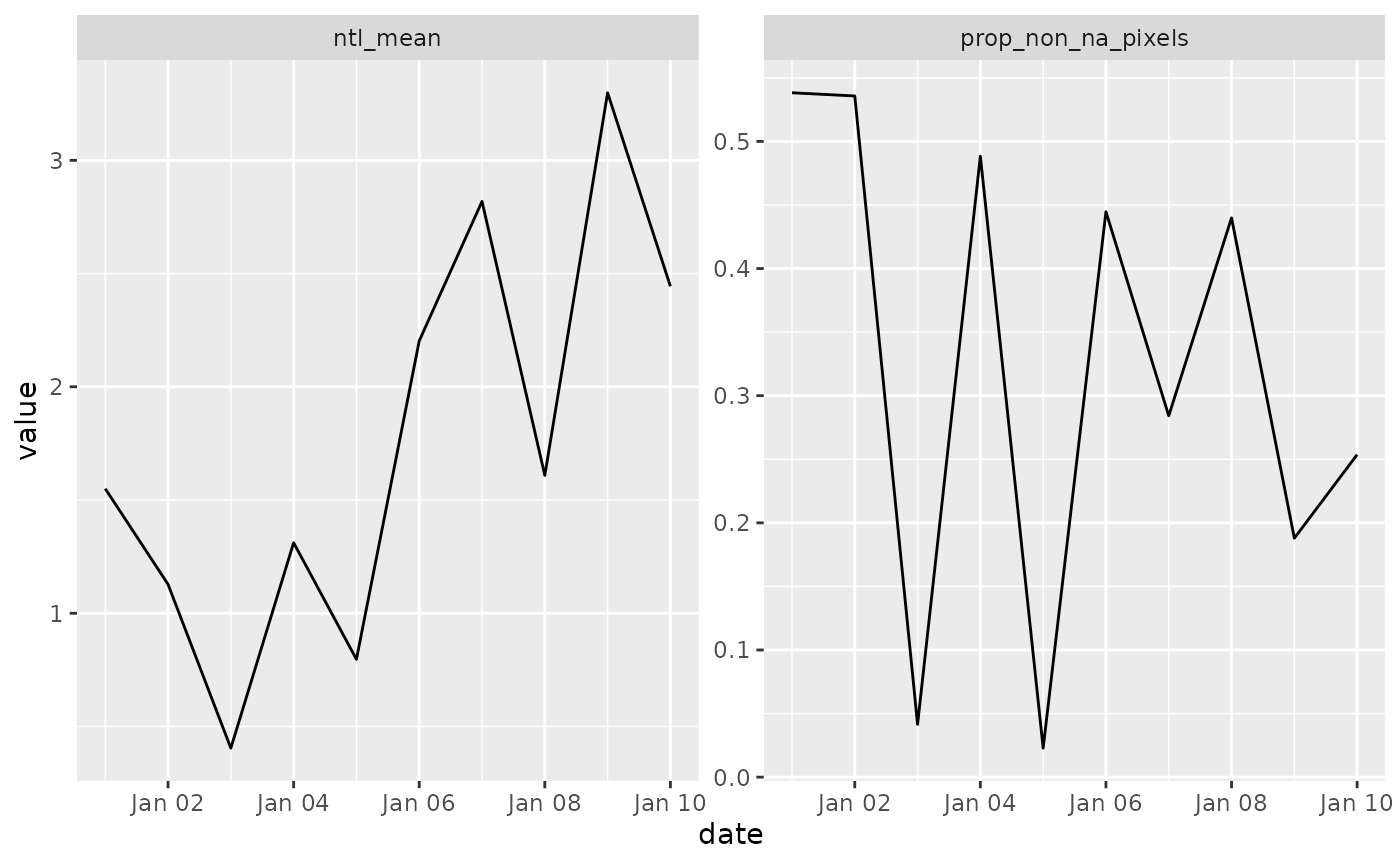
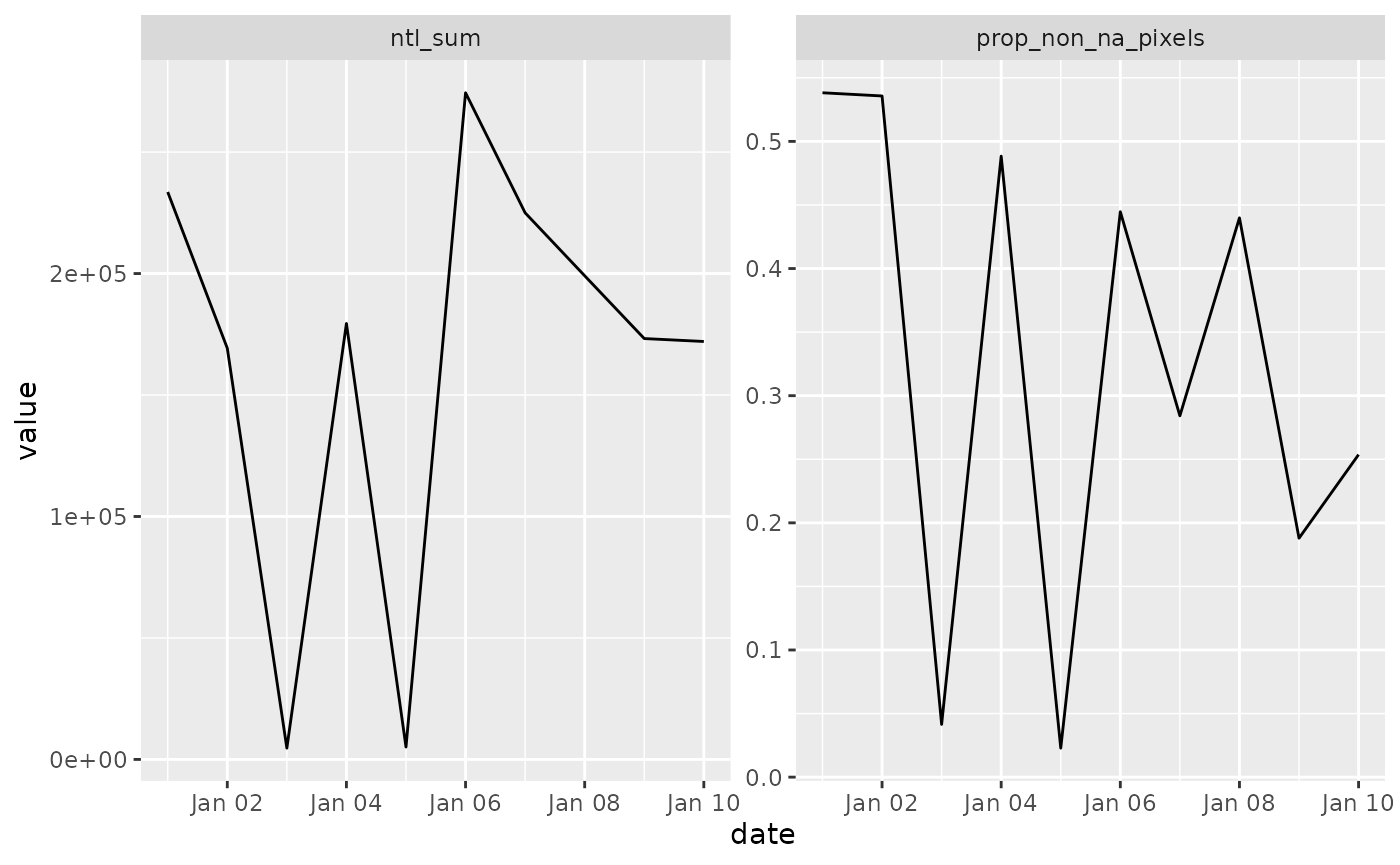
Deploying to gh-pages from @ worldbank/blackmarbler@b3764740acdab73eadd8f19a07637535ee2ee044 🚀

diff --git a/reference/download_h5_files.html b/reference/download_h5_files.html
@@ -1,0 +1,141 @@
+<!DOCTYPE html>
+<!-- Generated by pkgdown: do not edit by hand --><html lang="en"><head><meta http-equiv="Content-Type" content="text/html; charset=UTF-8"><meta charset="utf-8"><meta http-equiv="X-UA-Compatible" content="IE=edge"><meta name="viewport" content="width=device-width, initial-scale=1, shrink-to-fit=no"><title>Download h5 files — download_h5_files • blackmarbler</title><!-- favicons --><link rel="icon" type="image/png" sizes="96x96" href="../favicon-96x96.png"><link rel="icon" type="”image/svg+xml”" href="../favicon.svg"><link rel="apple-touch-icon" sizes="180x180" href="../apple-touch-icon.png"><link rel="icon" sizes="any" href="../favicon.ico"><link rel="manifest" href="../site.webmanifest"><script src="../deps/jquery-3.6.0/jquery-3.6.0.min.js"></script><meta name="viewport" content="width=device-width, initial-scale=1, shrink-to-fit=no"><link href="../deps/bootstrap-5.3.1/bootstrap.min.css" rel="stylesheet"><script src="../deps/bootstrap-5.3.1/bootstrap.bundle.min.js"></script><link href="../deps/font-awesome-6.5.2/css/all.min.css" rel="stylesheet"><link href="../deps/font-awesome-6.5.2/css/v4-shims.min.css" rel="stylesheet"><script src="../deps/headroom-0.11.0/headroom.min.js"></script><script src="../deps/headroom-0.11.0/jQuery.headroom.min.js"></script><script src="../deps/bootstrap-toc-1.0.1/bootstrap-toc.min.js"></script><script src="../deps/clipboard.js-2.0.11/clipboard.min.js"></script><script src="../deps/search-1.0.0/autocomplete.jquery.min.js"></script><script src="../deps/search-1.0.0/fuse.min.js"></script><script src="../deps/search-1.0.0/mark.min.js"></script><!-- pkgdown --><script src="../pkgdown.js"></script><meta property="og:title" content="Download h5 files — download_h5_files"><meta name="description" content="Download h5 files from from NASA Black Marble data using wget. The wget_h5_files() function requires the wget command line tool to be installed on your system. If you do not have wget installed, please install it from https://www.gnu.org/software/wget/."><meta property="og:description" content="Download h5 files from from NASA Black Marble data using wget. The wget_h5_files() function requires the wget command line tool to be installed on your system. If you do not have wget installed, please install it from https://www.gnu.org/software/wget/."><meta property="og:image" content="https://worldbank.github.io/blackmarbler/logo.png"></head><body>
+    <a href="#main" class="visually-hidden-focusable">Skip to contents</a>
+
+
+    <nav class="navbar navbar-expand-lg fixed-top bg-light" data-bs-theme="light" aria-label="Site navigation"><div class="container">
+
+    <a class="navbar-brand me-2" href="../index.html">blackmarbler</a>
+
+    <small class="nav-text text-muted me-auto" data-bs-toggle="tooltip" data-bs-placement="bottom" title="">0.2.6</small>
+
+
+    <button class="navbar-toggler" type="button" data-bs-toggle="collapse" data-bs-target="#navbar" aria-controls="navbar" aria-expanded="false" aria-label="Toggle navigation">
+      <span class="navbar-toggler-icon"></span>
+    </button>
+
+    <div id="navbar" class="collapse navbar-collapse ms-3">
+      <ul class="navbar-nav me-auto"><li class="active nav-item"><a class="nav-link" href="../reference/index.html">Reference</a></li>
+<li class="nav-item dropdown">
+  <button class="nav-link dropdown-toggle" type="button" id="dropdown-articles" data-bs-toggle="dropdown" aria-expanded="false" aria-haspopup="true">Articles</button>
+  <ul class="dropdown-menu" aria-labelledby="dropdown-articles"><li><a class="dropdown-item" href="../articles/assess-quality.html">Assessing Quality of Nighttime Lights Data</a></li>
+  </ul></li>
+      </ul><ul class="navbar-nav"><li class="nav-item"><form class="form-inline" role="search">
+ <input class="form-control" type="search" name="search-input" id="search-input" autocomplete="off" aria-label="Search site" placeholder="Search for" data-search-index="../search.json"></form></li>
+<li class="nav-item"><a class="external-link nav-link" href="https://github.com/worldbank/blackmarbler/" aria-label="GitHub"><span class="fa fab fa-github fa-lg"></span></a></li>
+      </ul></div>
+
+
+  </div>
+</nav><div class="container template-reference-topic">
+<div class="row">
+  <main id="main" class="col-md-9"><div class="page-header">
+      <img src="../logo.png" class="logo" alt=""><h1>Download h5 files</h1>
+      <small class="dont-index">Source: <a href="https://github.com/worldbank/blackmarbler/blob/main/R/blackmarbler.R" class="external-link"><code>R/blackmarbler.R</code></a></small>
+      <div class="d-none name"><code>download_h5_files.Rd</code></div>
+    </div>
+
+    <div class="ref-description section level2">
+    <p>Download h5 files from from <a href="https://blackmarble.gsfc.nasa.gov/" class="external-link">NASA Black Marble data</a> using <code>wget</code>. The wget_h5_files() function requires the wget command line tool to be installed on your system. If you do not have wget installed, please install it from https://www.gnu.org/software/wget/.</p>
+    </div>
+
+    <div class="section level2">
+    <h2 id="ref-usage">Usage<a class="anchor" aria-label="anchor" href="#ref-usage"></a></h2>
+    <div class="sourceCode"><pre class="sourceCode r"><code><span><span class="fu">download_h5_files</span><span class="op">(</span></span>
+<span>  roi_sf <span class="op">=</span> <span class="cn">NULL</span>,</span>
+<span>  <span class="va">product_id</span>,</span>
+<span>  <span class="va">date</span>,</span>
+<span>  <span class="va">h5_dir</span>,</span>
+<span>  <span class="va">bearer</span>,</span>
+<span>  download_method <span class="op">=</span> <span class="st">"httr"</span></span>
+<span><span class="op">)</span></span></code></pre></div>
+    </div>
+
+    <div class="section level2">
+    <h2 id="arguments">Arguments<a class="anchor" aria-label="anchor" href="#arguments"></a></h2>
+
+
+<dl><dt id="arg-roi-sf">roi_sf<a class="anchor" aria-label="anchor" href="#arg-roi-sf"></a></dt>
+<dd><p>Region of interest; sf polygon. Must be in the <a href="https://epsg.io/4326" class="external-link">WGS 84 (epsg:4326)</a> coordinate reference system. If <code>NULL</code>, all <code>h5</code> files for the inputted date(s) are downloaded.</p></dd>
+
+
+<dt id="arg-product-id">product_id<a class="anchor" aria-label="anchor" href="#arg-product-id"></a></dt>
+<dd><p>One of the following:</p><ul><li><p><code>"VNP46A1"</code>: Daily (raw)</p></li>
+<li><p><code>"VNP46A2"</code>: Daily (corrected)</p></li>
+<li><p><code>"VNP46A3"</code>: Monthly</p></li>
+<li><p><code>"VNP46A4"</code>: Annual</p></li>
+</ul></dd>
+
+
+<dt id="arg-date">date<a class="anchor" aria-label="anchor" href="#arg-date"></a></dt>
+<dd><p>Date(s) to download <code>h5</code> files.</p><ul><li><p>For <code>product_id</code>s <code>"VNP46A1"</code> and <code>"VNP46A2"</code>, a date (eg, <code>"2021-10-03"</code>).</p></li>
+<li><p>For <code>product_id</code> <code>"VNP46A3"</code>, a date or year-month (e.g., <code>"2021-10-01"</code>, where the day will be ignored, or <code>"2021-10"</code>).</p></li>
+<li><p>For <code>product_id</code> <code>"VNP46A4"</code>, year or date  (e.g., <code>"2021-10-01"</code>, where the month and day will be ignored, or <code>2021</code>).</p></li>
+</ul></dd>
+
+
+<dt id="arg-h-dir">h5_dir<a class="anchor" aria-label="anchor" href="#arg-h-dir"></a></dt>
+<dd><p>Path to download <code>h5</code> files to.</p></dd>
+
+
+<dt id="arg-bearer">bearer<a class="anchor" aria-label="anchor" href="#arg-bearer"></a></dt>
+<dd><p>NASA bearer token. For instructions on how to create a token, see <a href="https://github.com/worldbank/blackmarbler#bearer-token-" class="external-link">here</a>.</p></dd>
+
+</dl></div>
+    <div class="section level2">
+    <h2 id="value">Value<a class="anchor" aria-label="anchor" href="#value"></a></h2>
+    <p><code>NULL</code></p>
+    </div>
+    <div class="section level2">
+    <h2 id="author">Author<a class="anchor" aria-label="anchor" href="#author"></a></h2>
+    <p>Robert Marty <a href="mailto:rmarty@worldbank.org">rmarty@worldbank.org</a></p>
+    </div>
+
+    <div class="section level2">
+    <h2 id="ref-examples">Examples<a class="anchor" aria-label="anchor" href="#ref-examples"></a></h2>
+    <div class="sourceCode"><pre class="sourceCode r"><code><span class="r-in"><span><span class="kw">if</span> <span class="op">(</span><span class="cn">FALSE</span><span class="op">)</span> <span class="op">{</span> <span class="co"># \dontrun{</span></span></span>
+<span class="r-in"><span><span class="co"># Define bearer token</span></span></span>
+<span class="r-in"><span><span class="va">bearer</span> <span class="op">&lt;-</span> <span class="st">"BEARER-TOKEN-HERE"</span></span></span>
+<span class="r-in"><span></span></span>
+<span class="r-in"><span><span class="co"># sf polygon of Ghana</span></span></span>
+<span class="r-in"><span><span class="kw"><a href="https://rdrr.io/r/base/library.html" class="external-link">library</a></span><span class="op">(</span><span class="va">geodata</span><span class="op">)</span></span></span>
+<span class="r-in"><span><span class="va">roi_sf</span> <span class="op">&lt;-</span> <span class="fu"><a href="https://rdrr.io/pkg/geodata/man/gadm.html" class="external-link">gadm</a></span><span class="op">(</span>country <span class="op">=</span> <span class="st">"GHA"</span>, level<span class="op">=</span><span class="fl">0</span>, path <span class="op">=</span> <span class="fu"><a href="https://rdrr.io/r/base/tempfile.html" class="external-link">tempdir</a></span><span class="op">(</span><span class="op">)</span><span class="op">)</span> <span class="op"><a href="https://magrittr.tidyverse.org/reference/pipe.html" class="external-link">%&gt;%</a></span> <span class="fu"><a href="https://r-spatial.github.io/sf/reference/st_as_sf.html" class="external-link">st_as_sf</a></span><span class="op">(</span><span class="op">)</span></span></span>
+<span class="r-in"><span></span></span>
+<span class="r-in"><span><span class="co"># h5 files for Ghana for October 3, 2021</span></span></span>
+<span class="r-in"><span><span class="fu">wget_h5_files</span><span class="op">(</span>roi_sf <span class="op">=</span> <span class="va">roi_sf</span>,</span></span>
+<span class="r-in"><span>              product_id <span class="op">=</span> <span class="st">"VNP46A2"</span>,</span></span>
+<span class="r-in"><span>              date <span class="op">=</span> <span class="st">"2021-10-03"</span>,</span></span>
+<span class="r-in"><span>              h5_dir <span class="op">=</span> <span class="fu"><a href="https://rdrr.io/r/base/getwd.html" class="external-link">getwd</a></span><span class="op">(</span><span class="op">)</span>,        </span></span>
+<span class="r-in"><span>              bearer <span class="op">=</span> <span class="va">bearer</span><span class="op">)</span></span></span>
+<span class="r-in"><span></span></span>
+<span class="r-in"><span><span class="co"># Make raster using h5_files</span></span></span>
+<span class="r-in"><span><span class="va">ken_202103_r</span> <span class="op">&lt;-</span> <span class="fu"><a href="bm_raster.html">bm_raster</a></span><span class="op">(</span>roi_sf <span class="op">=</span> <span class="va">roi_sf</span>,</span></span>
+<span class="r-in"><span>                          product_id <span class="op">=</span> <span class="st">"VNP46A3"</span>,</span></span>
+<span class="r-in"><span>                          date <span class="op">=</span> <span class="st">"2021-03-01"</span>,</span></span>
+<span class="r-in"><span>                          bearer <span class="op">=</span> <span class="va">bearer</span>,</span></span>
+<span class="r-in"><span>                          h5_dir <span class="op">=</span> <span class="fu"><a href="https://rdrr.io/r/base/getwd.html" class="external-link">getwd</a></span><span class="op">(</span><span class="op">)</span><span class="op">)</span></span></span>
+<span class="r-in"><span></span></span>
+<span class="r-in"><span><span class="op">}</span> <span class="co"># }</span></span></span>
+<span class="r-in"><span></span></span>
+</code></pre></div>
+    </div>
+  </main><aside class="col-md-3"><nav id="toc" aria-label="Table of contents"><h2>On this page</h2>
+    </nav></aside></div>
+
+
+    <footer><div class="pkgdown-footer-left">
+  <p>Developed by Robert Marty, Gabriel Stefanini Vicente.</p>
+</div>
+
+<div class="pkgdown-footer-right">
+  <p>Site built with <a href="https://pkgdown.r-lib.org/" class="external-link">pkgdown</a> 2.1.3.</p>
+</div>
+
+    </footer></div>
+
+
+
+
+
+  </body></html>
+

diff --git a/reference/bm_extract.html b/reference/bm_extract.html
@@ -7,7 +7,7 @@
 
     <a class="navbar-brand me-2" href="../index.html">blackmarbler</a>
 
-    <small class="nav-text text-muted me-auto" data-bs-toggle="tooltip" data-bs-placement="bottom" title="">0.2.5</small>
+    <small class="nav-text text-muted me-auto" data-bs-toggle="tooltip" data-bs-placement="bottom" title="">0.2.6</small>
 
 
     <button class="navbar-toggler" type="button" data-bs-toggle="collapse" data-bs-target="#navbar" aria-controls="navbar" aria-expanded="false" aria-label="Toggle navigation">
@@ -46,7 +46,7 @@
 <span>  <span class="va">product_id</span>,</span>
 <span>  <span class="va">date</span>,</span>
 <span>  <span class="va">bearer</span>,</span>
-<span>  aggregation_fun <span class="op">=</span> <span class="fu"><a href="https://rdrr.io/r/base/c.html" class="external-link">c</a></span><span class="op">(</span><span class="st">"mean"</span><span class="op">)</span>,</span>
+<span>  aggregation_fun <span class="op">=</span> <span class="fu"><a href="https://rdrr.io/r/base/c.html" class="external-link">c</a></span><span class="op">(</span><span class="st">"sum"</span><span class="op">)</span>,</span>
 <span>  add_n_pixels <span class="op">=</span> <span class="cn">TRUE</span>,</span>
 <span>  variable <span class="op">=</span> <span class="cn">NULL</span>,</span>
 <span>  quality_flag_rm <span class="op">=</span> <span class="cn">NULL</span>,</span>
@@ -92,7 +92,7 @@
 
 
 <dt id="arg-aggregation-fun">aggregation_fun<a class="anchor" aria-label="anchor" href="#arg-aggregation-fun"></a></dt>
-<dd><p>Function used to aggregate nighttime lights data to polygons; this values is passed to the <code>fun</code> argument in <a href="https://github.com/isciences/exactextractr" class="external-link">exactextractr::exact_extract</a> (Default: <code>mean</code>).</p></dd>
+<dd><p>Function used to aggregate nighttime lights data to polygons; this values is passed to the <code>fun</code> argument in <a href="https://github.com/isciences/exactextractr" class="external-link">exactextractr::exact_extract</a> (Default: <code>sum</code>).</p></dd>
 
 
 <dt id="arg-add-n-pixels">add_n_pixels<a class="anchor" aria-label="anchor" href="#arg-add-n-pixels"></a></dt>
@@ -151,7 +151,7 @@ To see all variable choices, set <code>variable = ""</code> (this will create an
 
 
 <dt id="arg-download-method">download_method<a class="anchor" aria-label="anchor" href="#arg-download-method"></a></dt>
-<dd><p>Method to download data from NASA LAADS Archive: "<code>httr</code>" or "<code>wget</code>". If <code>httr</code>, uses the <code>httr2</code> R package to download data. If <code>wget</code>, uses the <code>wget</code> command line tool. <code>httr</code> is fully integrated in R, while <code>wget</code> requires the <code>wget</code> system command. <code>wget</code> can be more efficient and can help avoid network issues. (Default: <code>"httr"</code>).</p></dd>
+<dd><p>Method to download data (h5 files) from NASA LAADS Archive: "<code>httr</code>" or "<code>wget</code>". If <code>httr</code>, uses the <code>httr2</code> R package to download data. If <code>wget</code>, uses the <code>wget</code> command line tool. <code>httr</code> is fully integrated in R, while <code>wget</code> requires the <code>wget</code> system command. <code>wget</code> can be more efficient and can help avoid network issues. (Default: <code>"httr"</code>).</p></dd>
 
 
 <dt id="arg-quiet">quiet<a class="anchor" aria-label="anchor" href="#arg-quiet"></a></dt>

diff --git a/articles/assess-quality.html b/articles/assess-quality.html
@@ -25,7 +25,7 @@
 
     <a class="navbar-brand me-2" href="../index.html">blackmarbler</a>
 
-    <small class="nav-text text-muted me-auto" data-bs-toggle="tooltip" data-bs-placement="bottom" title="">0.2.5</small>
+    <small class="nav-text text-muted me-auto" data-bs-toggle="tooltip" data-bs-placement="bottom" title="">0.2.6</small>
 
 
     <button class="navbar-toggler" type="button" data-bs-toggle="collapse" data-bs-target="#navbar" aria-controls="navbar" aria-expanded="false" aria-label="Toggle navigation">
@@ -277,7 +277,7 @@ Show code to produce figure
 </summary><div class="sourceCode" id="cb11"><pre class="downlit sourceCode r">
 <code class="sourceCode R"><span></span>
 <span><span class="va">ntl_df</span> <span class="op"><a href="https://magrittr.tidyverse.org/reference/pipe.html" class="external-link">%&gt;%</a></span></span>
-<span>  <span class="fu">dplyr</span><span class="fu">::</span><span class="fu"><a href="https://dplyr.tidyverse.org/reference/select.html" class="external-link">select</a></span><span class="op">(</span><span class="va">date</span>, <span class="va">ntl_mean</span>, <span class="va">prop_non_na_pixels</span><span class="op">)</span> <span class="op"><a href="https://magrittr.tidyverse.org/reference/pipe.html" class="external-link">%&gt;%</a></span></span>
+<span>  <span class="fu">dplyr</span><span class="fu">::</span><span class="fu"><a href="https://dplyr.tidyverse.org/reference/select.html" class="external-link">select</a></span><span class="op">(</span><span class="va">date</span>, <span class="va">ntl_sum</span>, <span class="va">prop_non_na_pixels</span><span class="op">)</span> <span class="op"><a href="https://magrittr.tidyverse.org/reference/pipe.html" class="external-link">%&gt;%</a></span></span>
 <span>  <span class="fu"><a href="https://tidyr.tidyverse.org/reference/pivot_longer.html" class="external-link">pivot_longer</a></span><span class="op">(</span>cols <span class="op">=</span> <span class="op">-</span><span class="va">date</span><span class="op">)</span> <span class="op"><a href="https://magrittr.tidyverse.org/reference/pipe.html" class="external-link">%&gt;%</a></span></span>
 <span>  </span>
 <span>  <span class="fu"><a href="https://ggplot2.tidyverse.org/reference/ggplot.html" class="external-link">ggplot</a></span><span class="op">(</span><span class="fu"><a href="https://ggplot2.tidyverse.org/reference/aes.html" class="external-link">aes</a></span><span class="op">(</span>x <span class="op">=</span> <span class="va">date</span>,</span>

diff --git a/reference/bm_raster.html b/reference/bm_raster.html
@@ -7,7 +7,7 @@
 
     <a class="navbar-brand me-2" href="../index.html">blackmarbler</a>
 
-    <small class="nav-text text-muted me-auto" data-bs-toggle="tooltip" data-bs-placement="bottom" title="">0.2.5</small>
+    <small class="nav-text text-muted me-auto" data-bs-toggle="tooltip" data-bs-placement="bottom" title="">0.2.6</small>
 
 
     <button class="navbar-toggler" type="button" data-bs-toggle="collapse" data-bs-target="#navbar" aria-controls="navbar" aria-expanded="false" aria-label="Toggle navigation">
@@ -145,7 +145,7 @@ For <code>output_location_type = file</code>:</p></dd>
 
 
 <dt id="arg-download-method">download_method<a class="anchor" aria-label="anchor" href="#arg-download-method"></a></dt>
-<dd><p>Method to download data from NASA LAADS Archive: "<code>httr</code>" or "<code>wget</code>". If <code>httr</code>, uses the <code>httr2</code> R package to download data. If <code>wget</code>, uses the <code>wget</code> command line tool. <code>httr</code> is fully integrated in R, while <code>wget</code> requires the <code>wget</code> system command. <code>wget</code> can be more efficient and can help avoid network issues. (Default: <code>"httr"</code>).</p></dd>
+<dd><p>Method to download data (h5 files) from NASA LAADS Archive: "<code>httr</code>" or "<code>wget</code>". If <code>httr</code>, uses the <code>httr2</code> R package to download data. If <code>wget</code>, uses the <code>wget</code> command line tool. <code>httr</code> is fully integrated in R, while <code>wget</code> requires the <code>wget</code> system command. <code>wget</code> can be more efficient and can help avoid network issues. (Default: <code>"httr"</code>).</p></dd>
 
 
 <dt id="arg-quiet">quiet<a class="anchor" aria-label="anchor" href="#arg-quiet"></a></dt>

diff --git a/authors.html b/authors.html
@@ -7,7 +7,7 @@
 
     <a class="navbar-brand me-2" href="index.html">blackmarbler</a>
 
-    <small class="nav-text text-muted me-auto" data-bs-toggle="tooltip" data-bs-placement="bottom" title="">0.2.5</small>
+    <small class="nav-text text-muted me-auto" data-bs-toggle="tooltip" data-bs-placement="bottom" title="">0.2.6</small>
 
 
     <button class="navbar-toggler" type="button" data-bs-toggle="collapse" data-bs-target="#navbar" aria-controls="navbar" aria-expanded="false" aria-label="Toggle navigation">
@@ -52,13 +52,13 @@
 
       <p>Marty R, Stefanini Vicente G (2025).
 <em>blackmarbler: Black Marble Data and Statistics</em>.
-R package version 0.2.5, <a href="https://worldbank.github.io/blackmarbler/">https://worldbank.github.io/blackmarbler/</a>.
+R package version 0.2.6, <a href="https://worldbank.github.io/blackmarbler/">https://worldbank.github.io/blackmarbler/</a>.
 </p>
       <pre>@Manual{,
   title = {blackmarbler: Black Marble Data and Statistics},
   author = {Robert Marty and Gabriel {Stefanini Vicente}},
   year = {2025},
-  note = {R package version 0.2.5},
+  note = {R package version 0.2.6},
   url = {https://worldbank.github.io/blackmarbler/},
 }</pre>
     </div>

diff --git a/reference/index.html b/reference/index.html
@@ -7,7 +7,7 @@
 
     <a class="navbar-brand me-2" href="../index.html">blackmarbler</a>
 
-    <small class="nav-text text-muted me-auto" data-bs-toggle="tooltip" data-bs-placement="bottom" title="">0.2.5</small>
+    <small class="nav-text text-muted me-auto" data-bs-toggle="tooltip" data-bs-placement="bottom" title="">0.2.6</small>
 
 
     <button class="navbar-toggler" type="button" data-bs-toggle="collapse" data-bs-target="#navbar" aria-controls="navbar" aria-expanded="false" aria-label="Toggle navigation">
@@ -58,16 +58,16 @@
         <dd>Make Black Marble Raster</dd>
       </dl><dl><dt>
 
+          <code><a href="download_h5_files.html">download_h5_files()</a></code>
+
+        </dt>
+        <dd>Download h5 files</dd>
+      </dl><dl><dt>
+
           <code><a href="get_nasa_token.html">get_nasa_token()</a></code>
 
         </dt>
         <dd>Get a NASA Earthdata bearer token</dd>
-      </dl><dl><dt>
-
-          <code><a href="wget_h5_files.html">wget_h5_files()</a></code>
-
-        </dt>
-        <dd>Download h5 files using wget</dd>
       </dl></div>
   </main></div>
 

diff --git a/reference/get_nasa_token.html b/reference/get_nasa_token.html
@@ -11,7 +11,7 @@ that one instead."><meta property="og:image" content="https://worldbank.github.i
 
     <a class="navbar-brand me-2" href="../index.html">blackmarbler</a>
 
-    <small class="nav-text text-muted me-auto" data-bs-toggle="tooltip" data-bs-placement="bottom" title="">0.2.5</small>
+    <small class="nav-text text-muted me-auto" data-bs-toggle="tooltip" data-bs-placement="bottom" title="">0.2.6</small>
 
 
     <button class="navbar-toggler" type="button" data-bs-toggle="collapse" data-bs-target="#navbar" aria-controls="navbar" aria-expanded="false" aria-label="Toggle navigation">

diff --git a/404.html b/404.html
@@ -26,7 +26,7 @@
 
     <a class="navbar-brand me-2" href="https://worldbank.github.io/blackmarbler/index.html">blackmarbler</a>
 
-    <small class="nav-text text-muted me-auto" data-bs-toggle="tooltip" data-bs-placement="bottom" title="">0.2.5</small>
+    <small class="nav-text text-muted me-auto" data-bs-toggle="tooltip" data-bs-placement="bottom" title="">0.2.6</small>
 
 
     <button class="navbar-toggler" type="button" data-bs-toggle="collapse" data-bs-target="#navbar" aria-controls="navbar" aria-expanded="false" aria-label="Toggle navigation">

diff --git a/articles/index.html b/articles/index.html
@@ -7,7 +7,7 @@
 
     <a class="navbar-brand me-2" href="../index.html">blackmarbler</a>
 
-    <small class="nav-text text-muted me-auto" data-bs-toggle="tooltip" data-bs-placement="bottom" title="">0.2.5</small>
+    <small class="nav-text text-muted me-auto" data-bs-toggle="tooltip" data-bs-placement="bottom" title="">0.2.6</small>
 
 
     <button class="navbar-toggler" type="button" data-bs-toggle="collapse" data-bs-target="#navbar" aria-controls="navbar" aria-expanded="false" aria-label="Toggle navigation">

diff --git a/index.html b/index.html
@@ -28,7 +28,7 @@
 
     <a class="navbar-brand me-2" href="index.html">blackmarbler</a>
 
-    <small class="nav-text text-muted me-auto" data-bs-toggle="tooltip" data-bs-placement="bottom" title="">0.2.5</small>
+    <small class="nav-text text-muted me-auto" data-bs-toggle="tooltip" data-bs-placement="bottom" title="">0.2.6</small>
 
 
     <button class="navbar-toggler" type="button" data-bs-toggle="collapse" data-bs-target="#navbar" aria-controls="navbar" aria-expanded="false" aria-label="Toggle navigation">

diff --git a/LICENSE-text.html b/LICENSE-text.html
@@ -7,7 +7,7 @@
 
     <a class="navbar-brand me-2" href="index.html">blackmarbler</a>
 
-    <small class="nav-text text-muted me-auto" data-bs-toggle="tooltip" data-bs-placement="bottom" title="">0.2.5</small>
+    <small class="nav-text text-muted me-auto" data-bs-toggle="tooltip" data-bs-placement="bottom" title="">0.2.6</small>
 
 
     <button class="navbar-toggler" type="button" data-bs-toggle="collapse" data-bs-target="#navbar" aria-controls="navbar" aria-expanded="false" aria-label="Toggle navigation">
